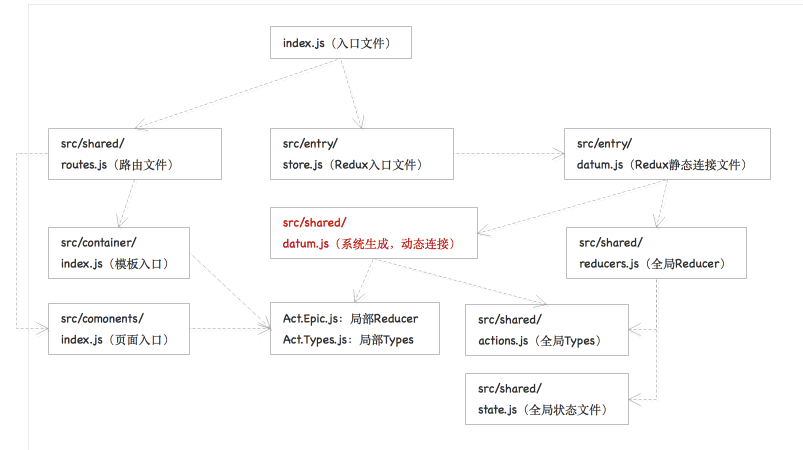
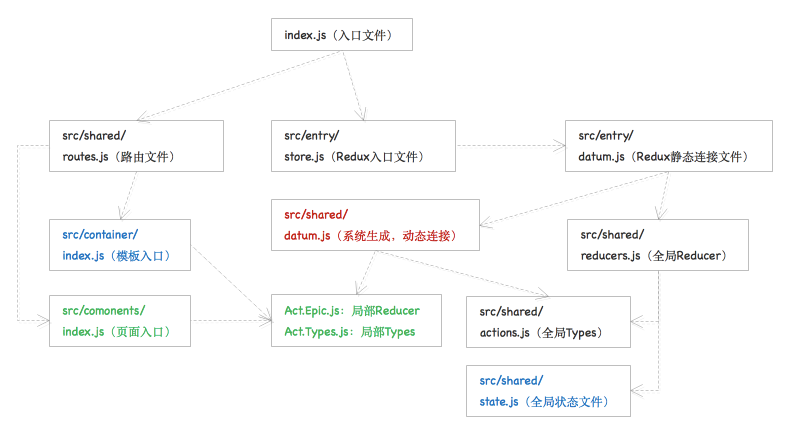
Updates environment/km1002-front-end/km1002-5epicshuo-ming.md
Auto commit by GitBook Editor

diff --git a/environment/km1002-front-end/km1002-5epicshuo-ming.md b/environment/km1002-front-end/km1002-5epicshuo-ming.md
@@ -2,3 +2,5 @@
 
 ![](/assets/KM1002/004.png)
 
+整个前端的结构如上图，这样就可以清楚知道前端的每个文件之间的依赖关系，其中红色部分就是生成的连接文件，它负责连接所有模块中的Act.Epic.js、Act.Types.js以及全局的Types，通过这样的结构，就可以让开发人员集中精力只集中于蓝色的组件开发
+
